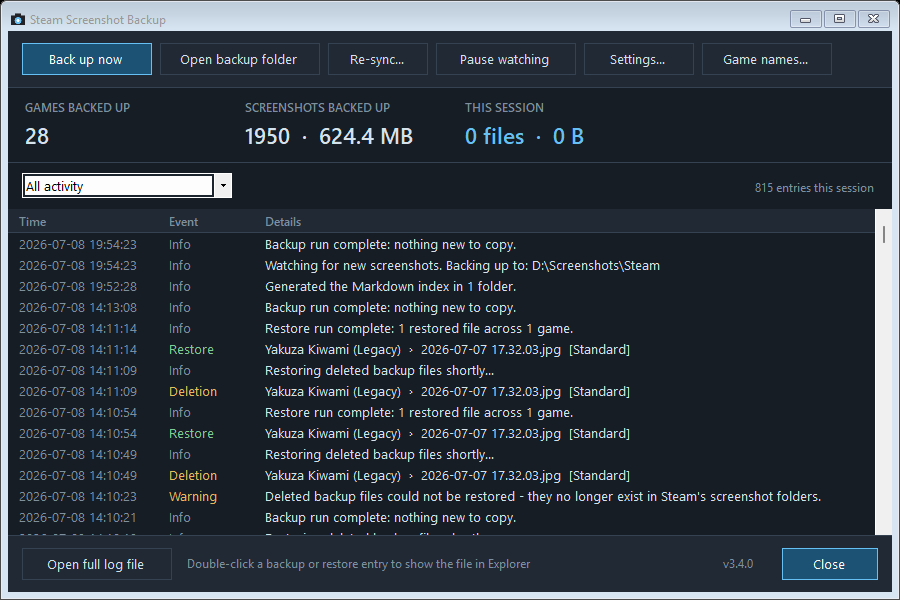
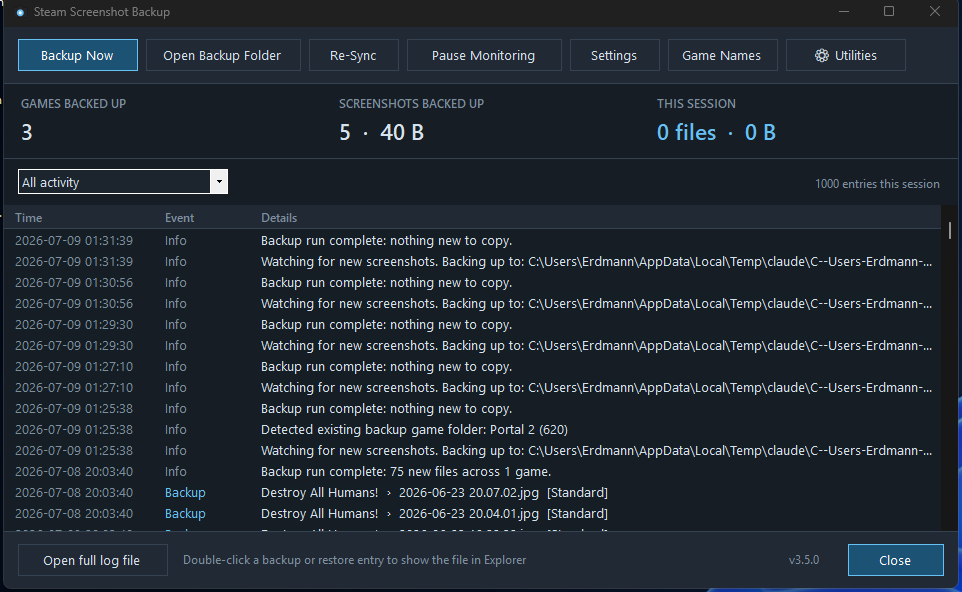
Update README and screenshots for v3.5.0
- Settings screenshots split into General/Backup configuration tabs; added
  Game Names and the new targeted-deletion window; regenerated main-window,
  tray-menu, and preview with a real screen capture (the previous
  DrawToBitmap-based screenshots missed DWM dark title bars and native dark
  scrollbars, rendering both as light/white).
- Documented the Utilities menu, retroactive app-id tracking, the
  markdown-index-disable cleanup prompt, and the new nav/tray labels.

Changed region(s): [[0.0, 0.0, 1.0, 1.0]]

diff --git a/README.md b/README.md
@@ -32,11 +32,22 @@ Steam Screenshots/
 *The main window — total games and screenshots backed up, per-session counters, and a live activity feed you can filter by backups, restores, deletions, warnings, or info.*
 
 <p align="center">
-  <img src="docs/img/settings.png" alt="Settings window" width="49%">
-  <img src="docs/img/tray-menu.png" alt="Right-click tray menu" width="34%">
+  <img src="docs/img/settings-general.png" alt="Settings window, General tab" width="49%">
+  <img src="docs/img/settings-backup.png" alt="Settings window, Backup configuration tab" width="49%">
 </p>
 
-*Left: Settings — backup folder, screenshot types, a manual high-resolution folder, folder layout, theme, popup notifications, startup, deleted-file protection, and the dangerous "delete originals after import" option. Right: the right-click tray menu (left-clicking the icon toggles the window).*
+*Settings is split across two tabs so the window never needs a scrollbar. Left: General — theme, notifications, startup, the Markdown index and preview-before-import toggles, and deleted-file protection. Right: Backup configuration — backup folder, screenshot types, a manual high-resolution folder, folder layout, and the dangerous "delete originals after import" option.*
+
+<p align="center">
+  <img src="docs/img/tray-menu.png" alt="Right-click tray menu" width="34%">
+  <img src="docs/img/game-names.png" alt="Game names window" width="49%">
+</p>
+
+*Left: the right-click tray menu (left-clicking the icon toggles the window). Right: Game names — fix delisted or non-Steam games by hand, or open the underlying tracking file directly.*
+
+![The Utilities menu's targeted deletion window: a checkbox tree by backup type, game, and file](docs/img/targeted-delete.png)
+
+*Utilities → Delete specific files/folders — pick exactly which backup files to remove from a checkbox tree (checking a type or game folder selects everything under it), with every deletion requiring a file-count-and-size confirmation before anything goes to the Recycle Bin.*
 
 ![The installer's task selection page](docs/img/installer.png)
 
@@ -61,8 +72,8 @@ Steam Screenshots/
 - **Self-healing backup** — delete a file (or a whole game folder) from the backup
   and the app notices and logs it. With automatic restore on (the default),
   anything still in Steam is copied straight back. Prefer to stay in control? Turn
-  it off and use **Re-sync missing** to review everything in Steam that isn't in
-  your backup — grouped by game — and restore only what you pick.
+  it off and use **Re-Sync** to review everything in Steam that isn't in your
+  backup — grouped by game — and restore only what you pick.
 - **Searchable metadata** — the game name is injected into each backup copy as
   standard Windows-readable properties (JPEG EXIF Title/Subject, PNG XMP) without
   re-encoding a single pixel or changing the file's timestamps, so it shows up as
@@ -72,7 +83,18 @@ Steam Screenshots/
   and personal knowledge bases.
 - **Markdown index** — optionally maintain a `_Screenshot_Log.md` in each folder
   that embeds every screenshot under per-day headers, ready to drop into Obsidian
-  or any markdown vault. Can be generated retroactively for existing folders.
+  or any markdown vault. Can be generated retroactively for existing folders, and
+  turning it back off offers to clean up the files it left behind.
+- **Retroactive game-name tracking** — every backup run retries name resolution
+  for any folder that previously fell back to a placeholder name like
+  `AppID_<id>`, so games that couldn't be identified the first time (not yet
+  installed, a shortcut added later, etc.) get picked up automatically as soon
+  as they can be.
+- **Utilities menu** — one-click bulk cleanup (standard backups, high-resolution
+  backups, Markdown indexes, already-imported originals, application logs) plus a
+  granular deletion window with a checkbox tree by backup type, game, and file.
+  Every deletion — bulk or targeted — shows the exact file count and total size
+  before anything is sent to the Recycle Bin.
 - **Preview before importing** — optionally review a dry-run list of *Original →
   Proposed backup path* before batch imports and layout reorganizations. Real-time
   captures during play are never interrupted.
@@ -121,24 +143,36 @@ Uninstall option cleans up after itself.
 
 - **Left-click** the tray icon to toggle the main window (show or hide it):
   statistics, a live activity feed (backups, restores, deletions, warnings — all
-  filterable), and every action as a button. Double-click a backup entry to reveal
-  the file in Explorer. The current version is shown in the window's bottom corner.
-- **Right-click** the tray icon for the quick menu: Open, Back up now, Re-sync
-  missing screenshots, Open backup folder, Pause watching, Start with Windows,
-  Settings, Uninstall, Exit.
-- **Re-sync missing** lists every screenshot in Steam that isn't in your backup,
-  grouped by game, with checkboxes so you can restore all of them or just a few.
-- **Settings** covers the backup folder (with optional migration of existing
-  files), screenshot types (turning one off offers to Recycle-Bin its existing
-  backups), a manual high-resolution folder for when it can't be auto-detected,
-  folder layout (with optional in-place reorganization), a Markdown index and a
-  preview-before-import toggle, theme, popup notifications, autostart, whether
-  deleted backup files are restored automatically, and a dangerous *Delete
-  originals after import* option (with a double confirmation and an offer to apply
-  it to already-imported screenshots). Enabling the Markdown index also offers to
-  generate it for your existing folders.
-- **Game names** lets you fix delisted or non-Steam games without touching any
-  JSON by hand.
+  filterable), and every action as a button — **Backup Now**, **Open Backup
+  Folder**, **Re-Sync**, **Pause Monitoring**, **Settings**, **Game Names**, and
+  **Utilities**. Double-click a backup entry to reveal the file in Explorer. The
+  current version is shown in the window's bottom corner.
+- **Right-click** the tray icon for the quick menu: Open, Backup Now, Re-Sync,
+  Open Backup Folder, Game Names, Pause Monitoring, Start with Windows, Settings,
+  Uninstall, Exit.
+- **Re-Sync** lists every screenshot in Steam that isn't in your backup, grouped
+  by game, with checkboxes so you can restore all of them or just a few.
+- **Settings** is split across two tabs so the window never needs a scrollbar.
+  *General* covers theme, popup notifications, autostart, the Markdown index and
+  preview-before-import toggles, and whether deleted backup files are restored
+  automatically. *Backup configuration* covers the backup folder (with optional
+  migration of existing files), screenshot types (turning one off offers to
+  Recycle-Bin its existing backups), a manual high-resolution folder for when it
+  can't be auto-detected, folder layout (with optional in-place reorganization),
+  and a dangerous *Delete originals after import* option (with a double
+  confirmation and an offer to apply it to already-imported screenshots).
+  Toggling the Markdown index either way offers to generate or clean up the
+  `_Screenshot_Log.md` files for your existing folders.
+- **Game Names** lets you fix delisted or non-Steam games without touching any
+  JSON by hand, or open the underlying tracking file directly in your default
+  editor. Every backup run also retries name resolution for games it couldn't
+  identify last time, so folders named `AppID_<id>` get picked up automatically
+  once they can be resolved.
+- **Utilities** covers one-click bulk cleanup (standard backups, high-resolution
+  backups, Markdown indexes, already-imported originals, application logs) plus
+  **Delete specific files/folders**, a checkbox tree by backup type, game, and
+  file for granular deletion. Every deletion here shows the exact file count and
+  total size before anything is sent to the Recycle Bin.
 
 ### High-resolution screenshots
 
@@ -243,8 +277,10 @@ project is to be completely transparent about what it does behind the scenes.**
   removed unless you explicitly enable the dangerous *Delete originals after import*
   option — and even then, deletions go to the **Windows Recycle Bin**, never a
   permanent wipe.
-- Deleting backups (e.g. when you turn a screenshot type off) also goes to the
-  Recycle Bin, and is always something you confirm first.
+- Deleting backups — whether from turning a screenshot type off, the Utilities
+  menu's bulk actions, or the targeted deletion window — always goes to the
+  Recycle Bin, and always shows the exact file count and total size before you
+  confirm.
 - No telemetry, no accounts, no network calls except optional Steam store lookups
   to resolve game names (cached locally, one lookup per game, ever).
 - The full source is here. Nothing about how your files are handled is hidden — if
